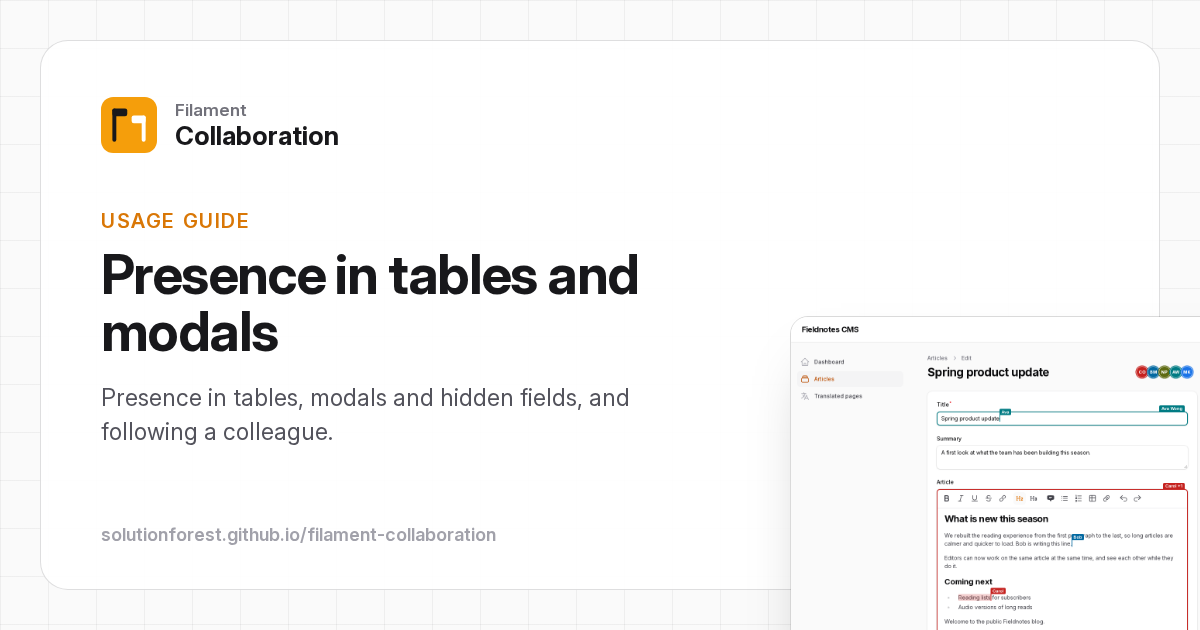
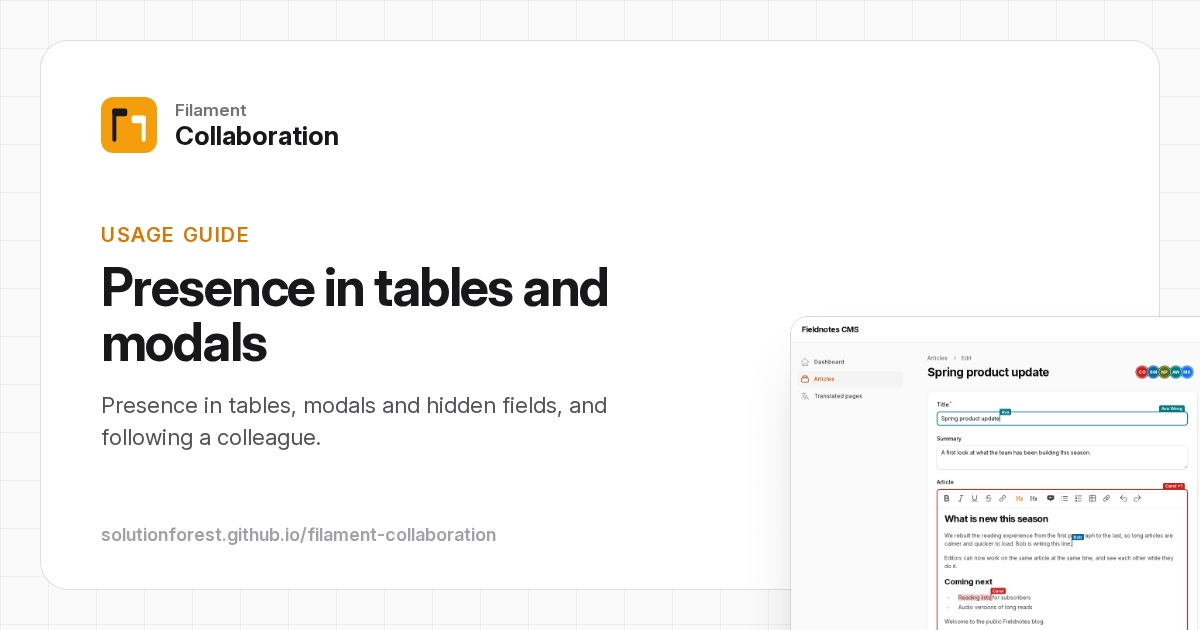
fix(docs): lint the website scripts as Node, even cover layout, company footer
ESLint linted website/scripts with browser globals, failing the
JavaScript job on main: they are Node scripts, like demo/scripts. The
generated website files are ignored.

Covers centre the eyebrow, title and description between the logo and
the URL, and keep the description to two lines, so pages with a long
title no longer push the text onto the URL. The footer reads
"Copyright © 2026 Solution Forest Limited · Made in HK".

Changed region(s): [[0.0617, 0.3317, 0.555, 0.573], [0.0925, 0.6032, 0.5242, 0.7238]]

diff --git a/eslint.config.js b/eslint.config.js
@@ -5,7 +5,7 @@ import globals from 'globals'
 export default [
     // `scripts/` holds superseded browser scripts; the maintained ones are in `demo/tests/browser`.
     {
-        ignores: ['resources/dist/**', 'node_modules/**', 'scripts/**', 'demo/*', '!demo/tests', 'demo/tests/*', '!demo/tests/browser', '!demo/scripts', 'demo/scripts/browser-*', '!demo/packages', 'demo/packages/*/resources/dist/**'],
+        ignores: ['resources/dist/**', 'node_modules/**', 'scripts/**', 'demo/*', '!demo/tests', 'demo/tests/*', '!demo/tests/browser', '!demo/scripts', 'demo/scripts/browser-*', '!demo/packages', 'demo/packages/*/resources/dist/**', 'website/node_modules/**', 'website/src/**', 'website/.vitepress/cache/**', 'website/.vitepress/dist/**'],
     },
     js.configs.recommended,
     {
@@ -28,7 +28,7 @@ export default [
     },
     {
         // Node scripts; the browser tests also run code in the page, so they see both.
-        files: ['tests/js/**', 'demo/tests/browser/**', 'demo/scripts/**', 'demo/packages/vite.config.js', 'vite.config.js', 'eslint.config.js'],
+        files: ['tests/js/**', 'demo/tests/browser/**', 'demo/scripts/**', 'demo/packages/vite.config.js', 'vite.config.js', 'eslint.config.js', 'website/scripts/**'],
         languageOptions: { globals: { ...globals.node, ...globals.browser } },
         // `page.evaluate((x) => ..., x)` passes values into the page under the same name.
         rules: { 'no-console': 'off', 'no-shadow': 'off' },
